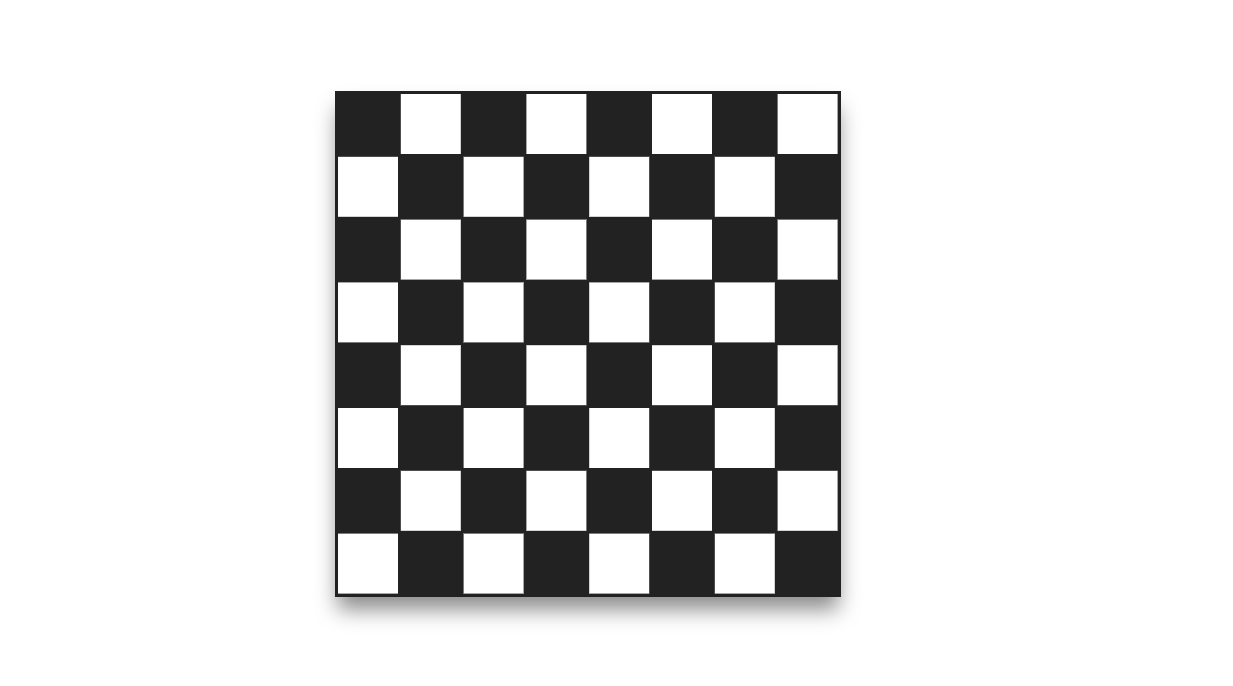
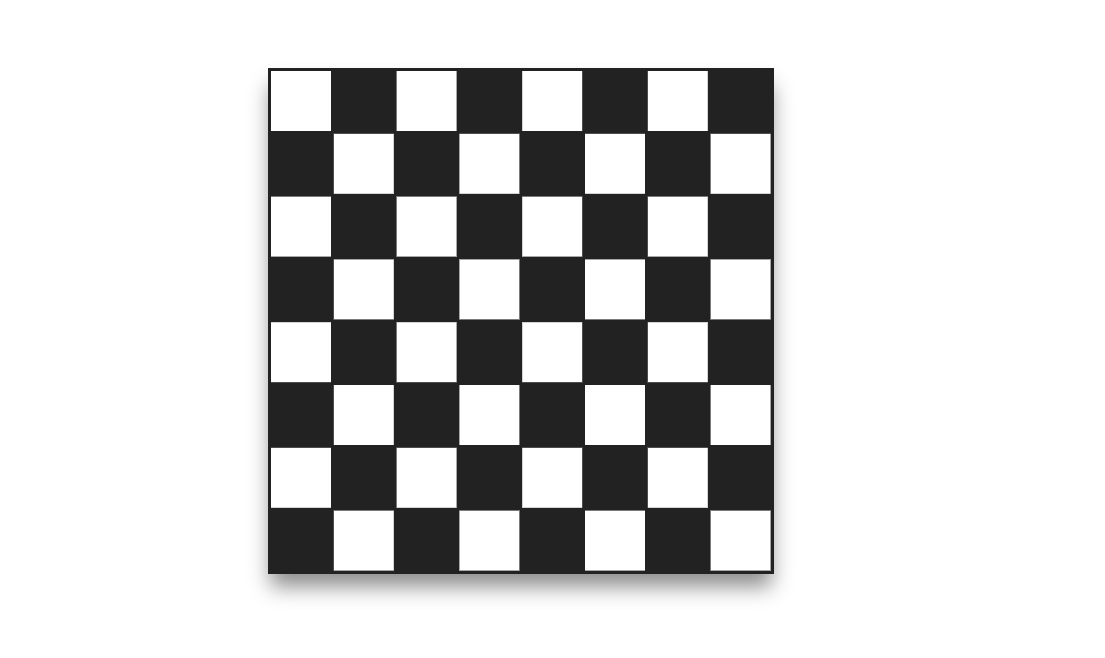
atualizando readme

Changed region(s): [[0.2154, 0.0912, 0.7077, 0.9119]]

diff --git a/index.html b/index.html
@@ -43,7 +43,7 @@
             const board = renderBoard(62.300,0.5);
 
             board.forEach((item,number) => {
-                let color = (number%2 == 0) ? '#222' : '#FFF';
+                let color = (number%2 == 0) ? '#FFF' : '#222';
                 let lastcolor = '';
                 item.forEach( pixel => {
                     if(lastcolor)
